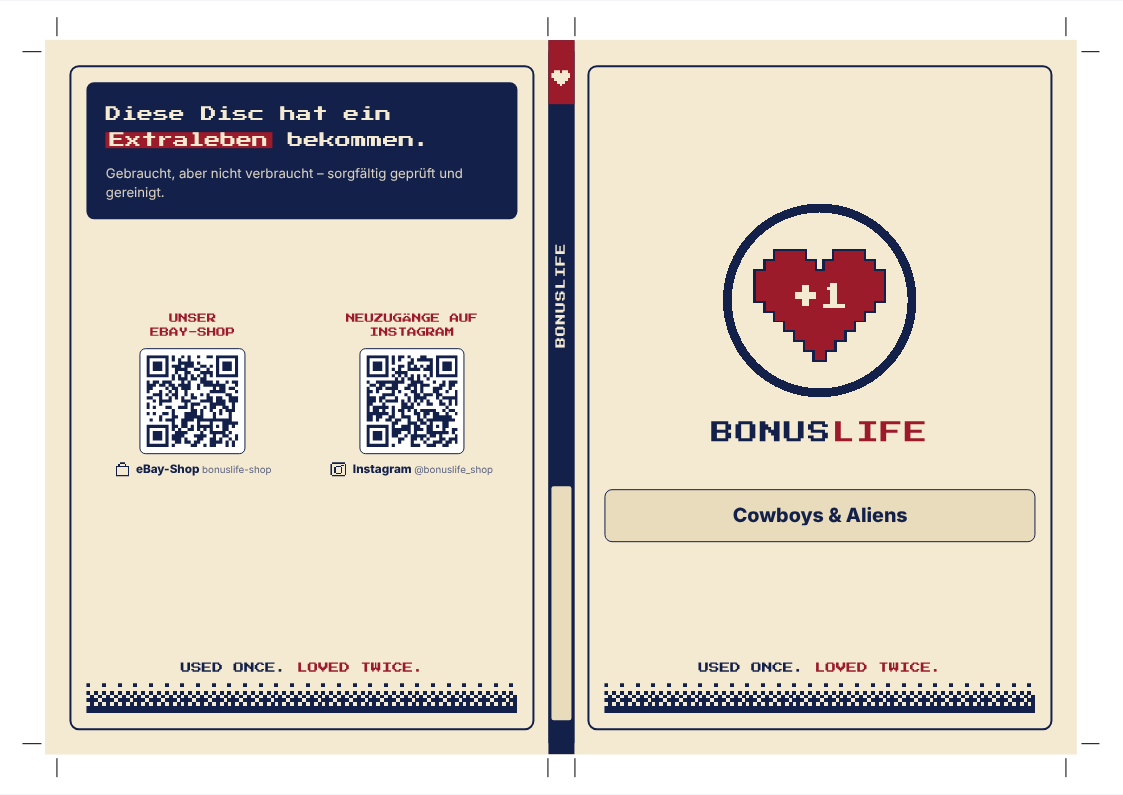
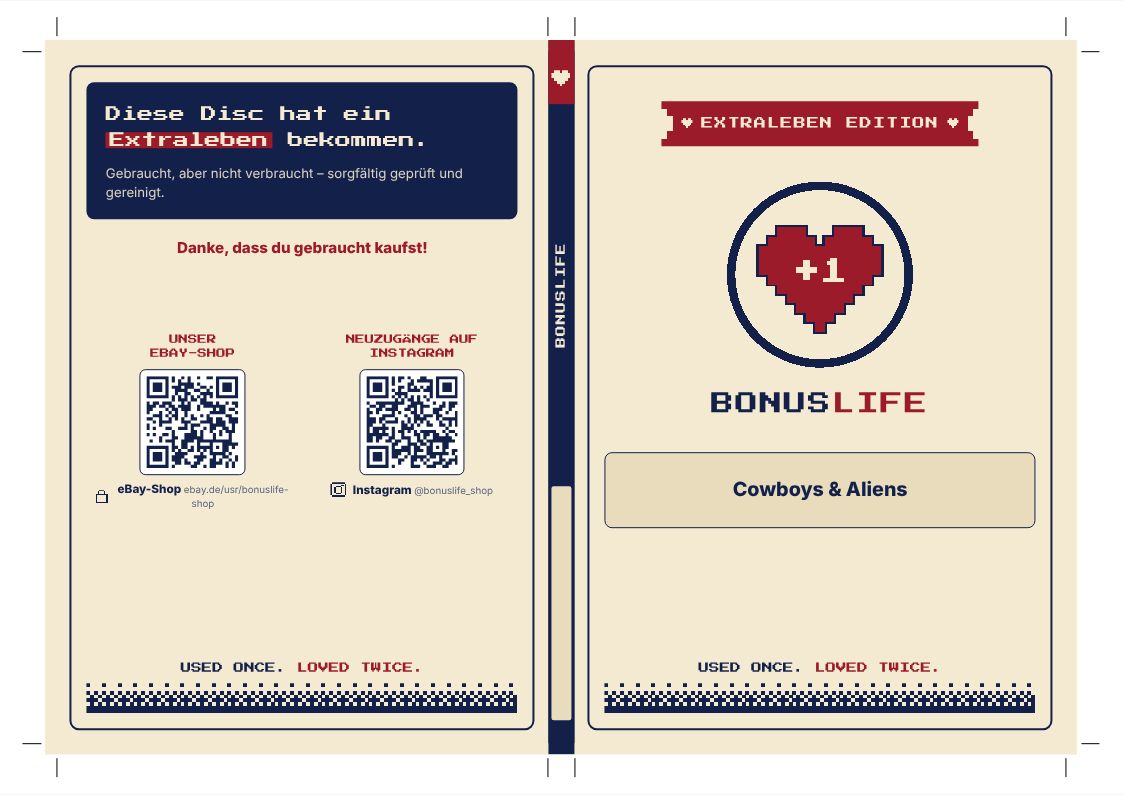
Add 'Extraleben Edition' header to cover front, thanks line and shop URL on back
Front gets a selectable header: red stepped ribbon (default), navy bar
or none; logo and a taller 20 mm title strip move down accordingly.
Back adds 'Danke, dass du gebraucht kaufst!' and prints the shop
address next to the QR code for people who don't scan.

Claude-Session: https://claude.ai/code/session_016MhpHubkyT9LhNT91FdgZQ

diff --git a/cover/index.html b/cover/index.html
@@ -64,11 +64,17 @@ h1{font-size:18px;margin-bottom:4px}
 
 /* Vorderseite */
 .front{align-items:center;text-align:center}
-.badge{width:52mm;height:52mm;margin-top:auto}
+.badge{width:50mm;height:50mm;margin-top:9mm}
+.edition{position:relative;display:flex;align-items:center;justify-content:center;gap:2.2mm;color:var(--cream);font-family:"Press Start 2P",monospace;font-size:3.2mm;letter-spacing:.3mm}
+.edition .px{width:3mm}
+.edition.ribbon{width:84mm;height:12mm;margin-top:5mm}
+.edition.ribbon>svg.bg{position:absolute;inset:0;width:100%;height:100%}
+.edition.bar{align-self:stretch;height:13mm;margin-top:3mm;background:var(--navy);border-radius:1.5mm}
+.edition>*{position:relative}
 .badge img,.badge svg{width:100%;height:100%;object-fit:contain;display:block}
 .brand{font-family:"Press Start 2P",monospace;font-size:6mm;margin-top:6mm;letter-spacing:.4mm}
 .brand span{color:var(--accent)}
-.titlefield{align-self:stretch;margin-top:12mm;height:14mm;border:.5mm solid var(--fg);border-radius:2mm;background:var(--field);display:flex;align-items:center;justify-content:center;padding:0 4mm;overflow:hidden}
+.titlefield{align-self:stretch;margin-top:10mm;height:20mm;border:.5mm solid var(--fg);border-radius:2mm;background:var(--field);display:flex;align-items:center;justify-content:center;padding:0 4mm;overflow:hidden}
 .titlefield .t{font-weight:800;font-size:5.2mm;line-height:1;white-space:nowrap;overflow:hidden;text-overflow:ellipsis}
 
 /* Rückseite */
@@ -76,6 +82,7 @@ h1{font-size:18px;margin-bottom:4px}
 .head h2{font-family:"Press Start 2P",monospace;font-size:4.2mm;line-height:1.7;font-weight:400}
 .head h2 span{background:var(--red);padding:0 1mm;box-decoration-break:clone;-webkit-box-decoration-break:clone}
 .head p{font-size:3.5mm;line-height:1.45;margin-top:2.5mm;opacity:.88}
+.thanks{margin-top:5mm;font-weight:800;font-size:4mm;color:var(--accent);text-align:center}
 .qrs{margin:auto 0;display:flex;gap:6mm;justify-content:center}
 .qrcard{flex:1;display:flex;flex-direction:column;align-items:center;text-align:center;gap:2mm;max-width:52mm}
 .qrcard .k{font-family:"Press Start 2P",monospace;font-size:2.5mm;line-height:1.5;color:var(--accent)}
@@ -114,6 +121,7 @@ h1{font-size:18px;margin-bottom:4px}
     <label>eBay-Shop-Link<input id="url" value="https://www.ebay.de/usr/bonuslife-shop"></label>
     <label>Instagram-Link<input id="insta" placeholder="leer = nur Shop-Code"></label>
     <label>Original-Logo (PNG/SVG, optional)<input type="file" id="logo" accept="image/*"></label>
+    <label>Kopf vorne<select id="head"><option value="ribbon">Edition-Band (rot)</option><option value="bar">Edition-Leiste (navy)</option><option value="none">ohne</option></select></label>
     <label>Hintergrund<select id="theme"><option value="">Creme</option><option value="white">Weiß (für Creme-Papier / spart Tinte)</option></select></label>
     <label>Rücken (mm)<select id="spine"><option>5</option><option selected>7</option><option>9</option><option>14</option></select></label>
     <label>Seitenbreite (mm)<input id="pw" type="number" step="0.5" value="130"></label>
@@ -132,6 +140,7 @@ h1{font-size:18px;margin-bottom:4px}
         <h2>Diese Disc hat ein <span>Extraleben</span> bekommen.</h2>
         <p>Gebraucht, aber nicht verbraucht – sorgfältig geprüft und gereinigt.</p>
       </div>
+      <div class="thanks">Danke, dass du gebraucht kaufst!</div>
       <div class="qrs" id="qrs"></div>
       <div class="bottom">
         <div class="slogan">USED ONCE. <span>LOVED TWICE.</span></div>
@@ -147,6 +156,7 @@ h1{font-size:18px;margin-bottom:4px}
     <!-- Vorderseite (rechts) -->
     <div class="panel front">
       <div class="frame"></div>
+      <div class="edition ribbon" id="edition"><span data-px="heartCream"></span><span>EXTRALEBEN EDITION</span><span data-px="heartCream"></span></div>
       <div class="badge" id="logoArea"></div>
       <div class="brand">BONUS<span>LIFE</span></div>
       <div class="titlefield" id="titleOut"></div>
@@ -201,6 +211,13 @@ function plusOne(cx,cy,s){
   put(plus,0,.5);put(one,8,0);return r;
 }
 
+// Rotes Band mit gestuften Schwalbenschwanz-Enden (84 × 12 mm)
+function ribbonSVG(){
+  const W=84,pts=[[W,0],[W,2],[W-1.5,2],[W-1.5,4],[W-3,4],[W-3,8],[W-1.5,8],[W-1.5,10],[W,10],[W,12],
+    [0,12],[0,10],[1.5,10],[1.5,8],[3,8],[3,4],[1.5,4],[1.5,2],[0,2],[0,0]];
+  return `<svg class="bg" viewBox="0 0 ${W} 12" preserveAspectRatio="none" shape-rendering="crispEdges"><polygon fill="${RED}" points="${pts.map(p=>p.join(',')).join(' ')}"/></svg>`;
+}
+
 // Pixel-Verlauf (geordnetes Dithering) als Abschluss der Rückseite
 function drawDither(){
   const W=110,H=8,B=[[0,8,2,10],[12,4,14,6],[3,11,1,9],[15,7,13,5]];let r='';
@@ -214,7 +231,7 @@ function lastSeg(url){const m=url.replace(/\/+$/,'').match(/([^\/?#]+)(?:[?#].*)
 
 function renderQRs(){
   const shop=$('url').value.trim(), ig=$('insta').value.trim(), box=$('qrs');
-  const shopLbl=`<div class="lbl">${pxSVG('bag')}<span>eBay-Shop <small>${esc(lastSeg(shop))}</small></span></div>`;
+  const shopLbl=`<div class="lbl">${pxSVG('bag')}<span>eBay-Shop <small>${esc(shop.replace(/^https?:\/\/(www\.)?/,'').replace(/\/+$/,''))}</small></span></div>`;
   if(shop&&!ig){
     box.className='qrs single';
     box.innerHTML=`<div class="qrcard"><div class="qr">${qrSVG(shop)}</div><div class="txt">
@@ -242,6 +259,10 @@ function render(){
   $('logoArea').innerHTML=logoData?'<img src="'+logoData+'" alt="Bonuslife Logo">':badgeSVG();
   const t=$('title').value.trim();
   $('titleOut').innerHTML=t?'<div class="t">'+esc(t)+'</div>':'';
+  const hd=$('head').value,ed=$('edition');
+  ed.hidden=hd==='none';ed.className='edition '+(hd==='none'?'':hd);
+  ed.querySelector('svg.bg')?.remove();
+  if(hd==='ribbon')ed.insertAdjacentHTML('afterbegin',ribbonSVG());
   renderQRs();
   drawMarks();
 }
